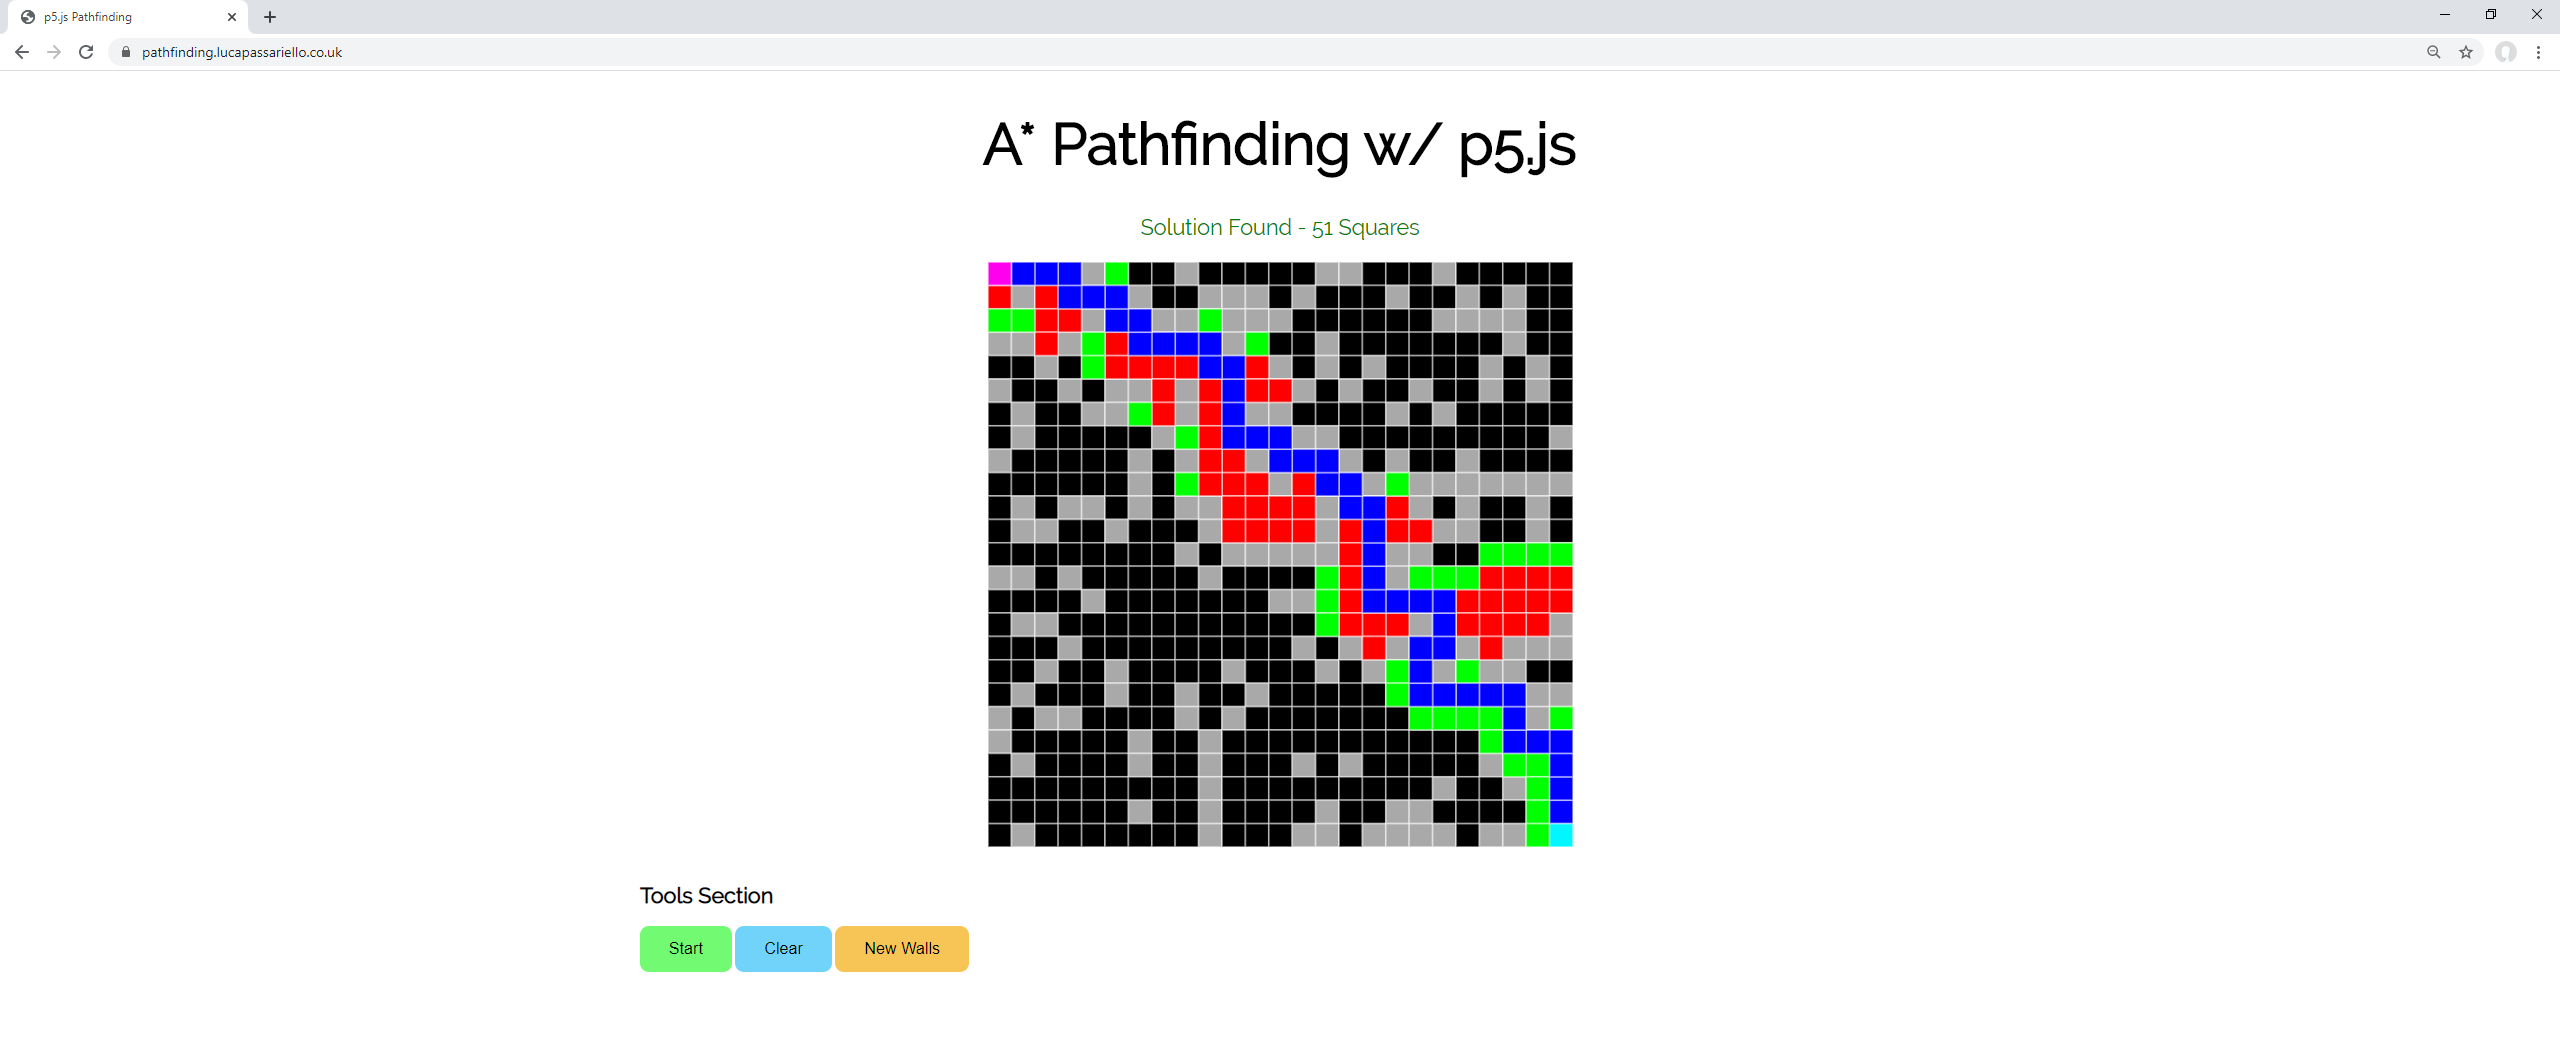
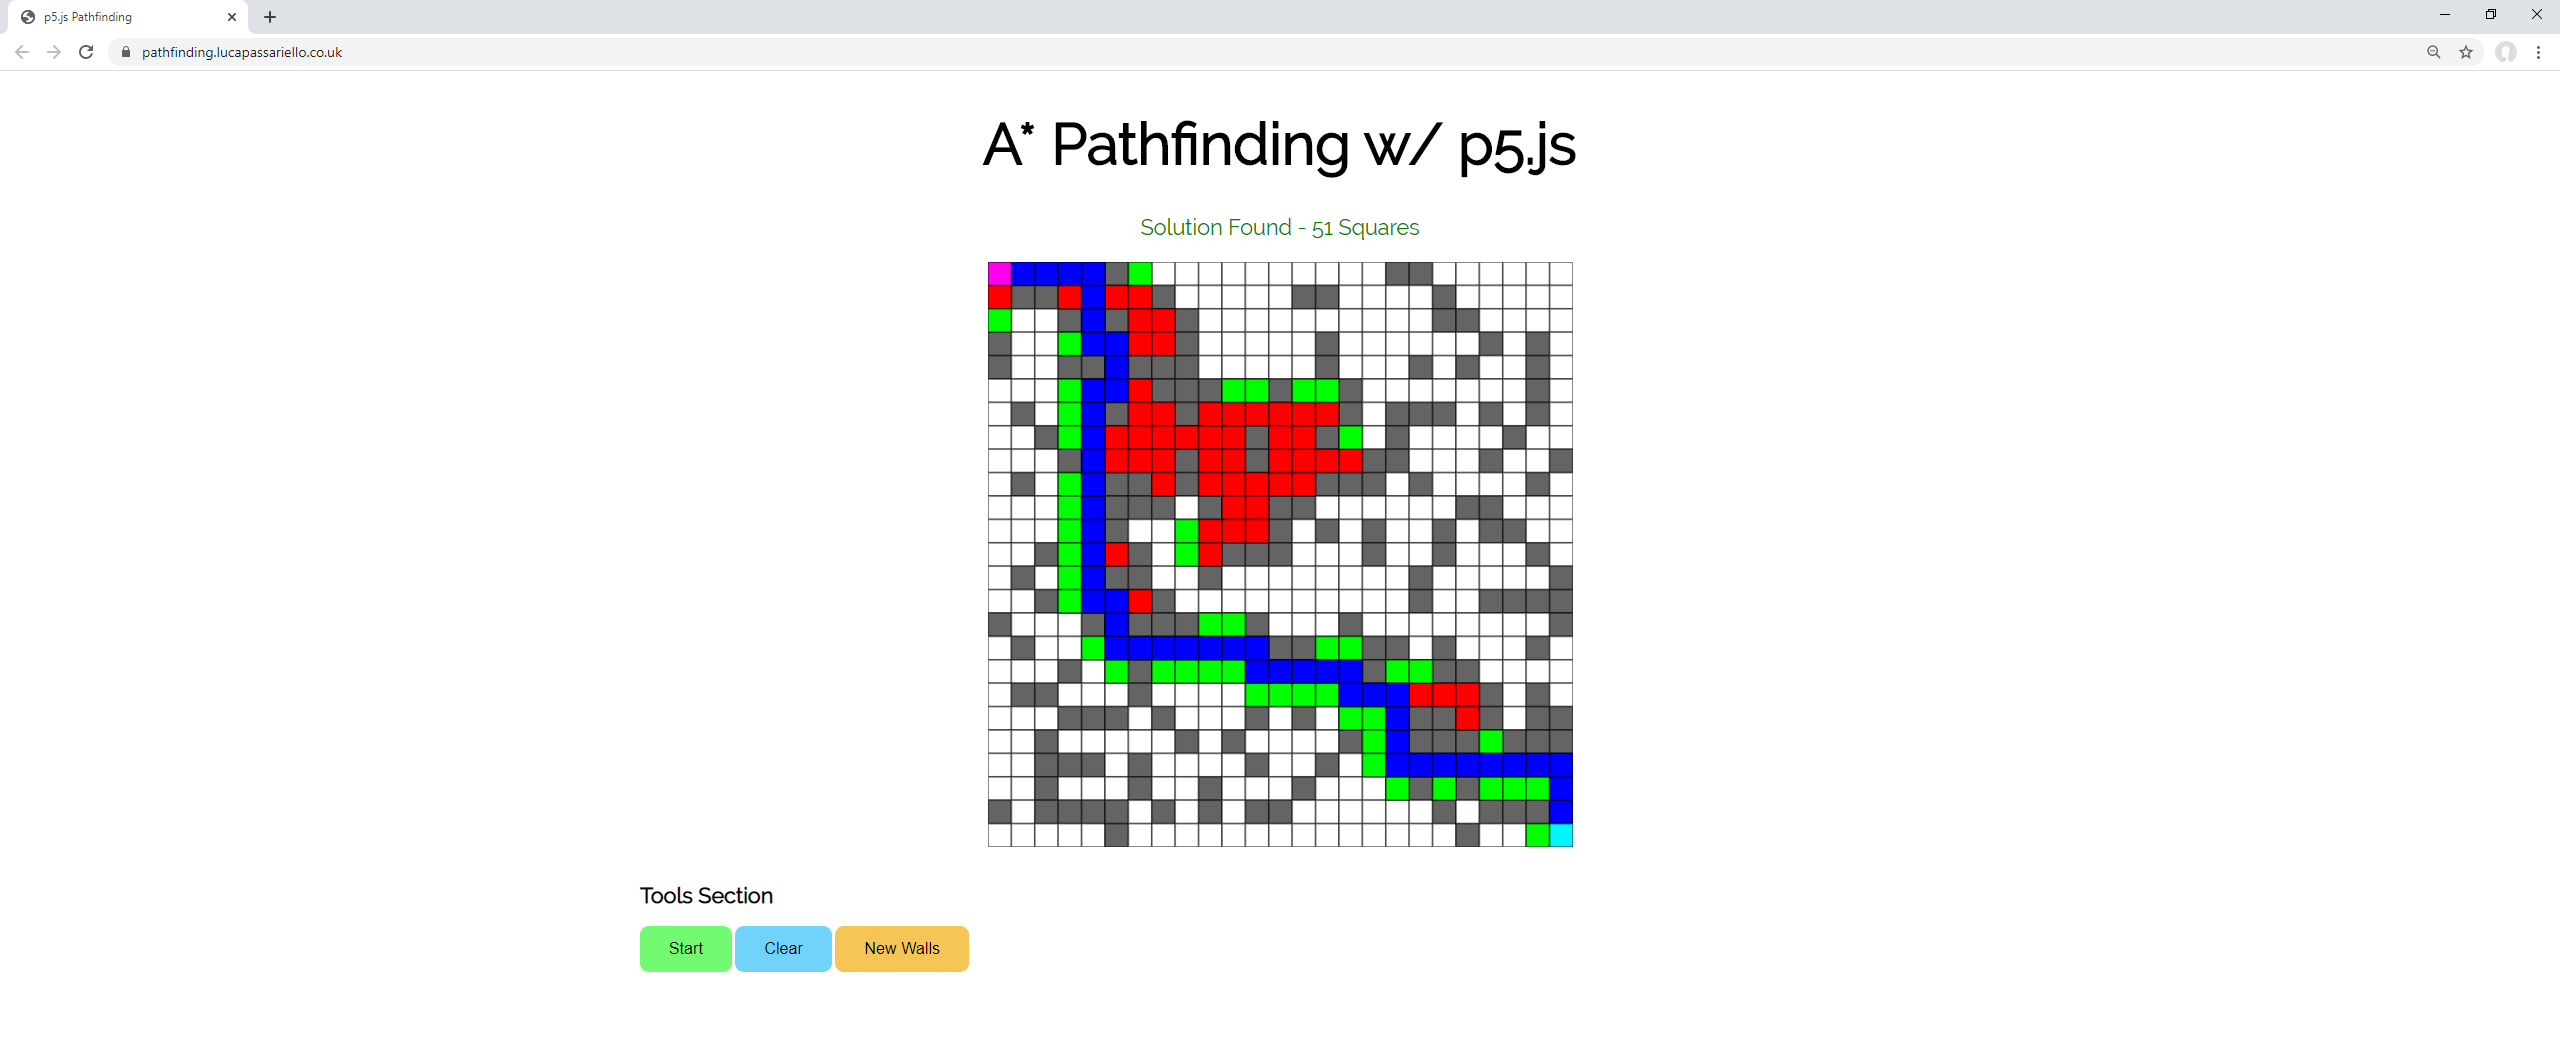
Updated README screenshot

Changed region(s): [[0.375, 0.2462, 0.625, 0.8308]]

diff --git a/sketch.js b/sketch.js
@@ -74,10 +74,8 @@ function clearPathfinding(){
 }
 function newWalls(){
     grid = [];
-    console.log(wallsX + " " + wallsY);
     [wallsX, wallsY] = [];
     [wallsX, wallsY] = addWalls();
-    console.log(wallsX + " " + wallsY);
     clearPathfinding();
 }
 function setup(){
@@ -187,9 +185,14 @@ function draw(){
     }
 
     if(path){
+        noFill();
+        stroke(0);
+        beginShape();
         for(var i = 0; i < path.length; i++){
             path[i].show(color(0, 0, 255));
+            // vertex(path[i].x * cellwidth, path[i].y*cellHeight);
         }
+        endShape();
     }
     start.show(color(255, 0, 239));
     end.show(color(0, 247, 255));
